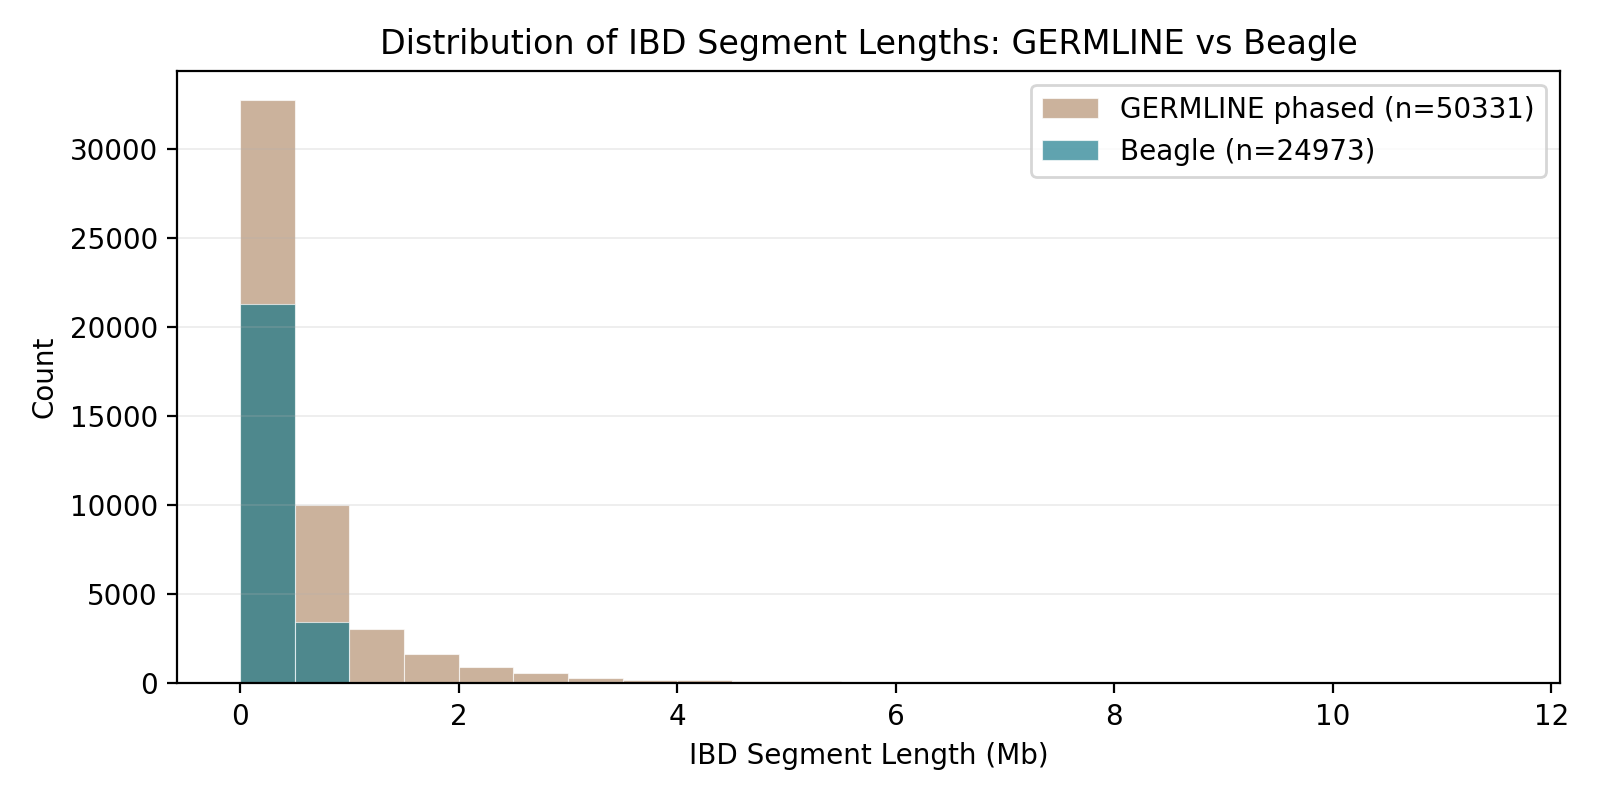
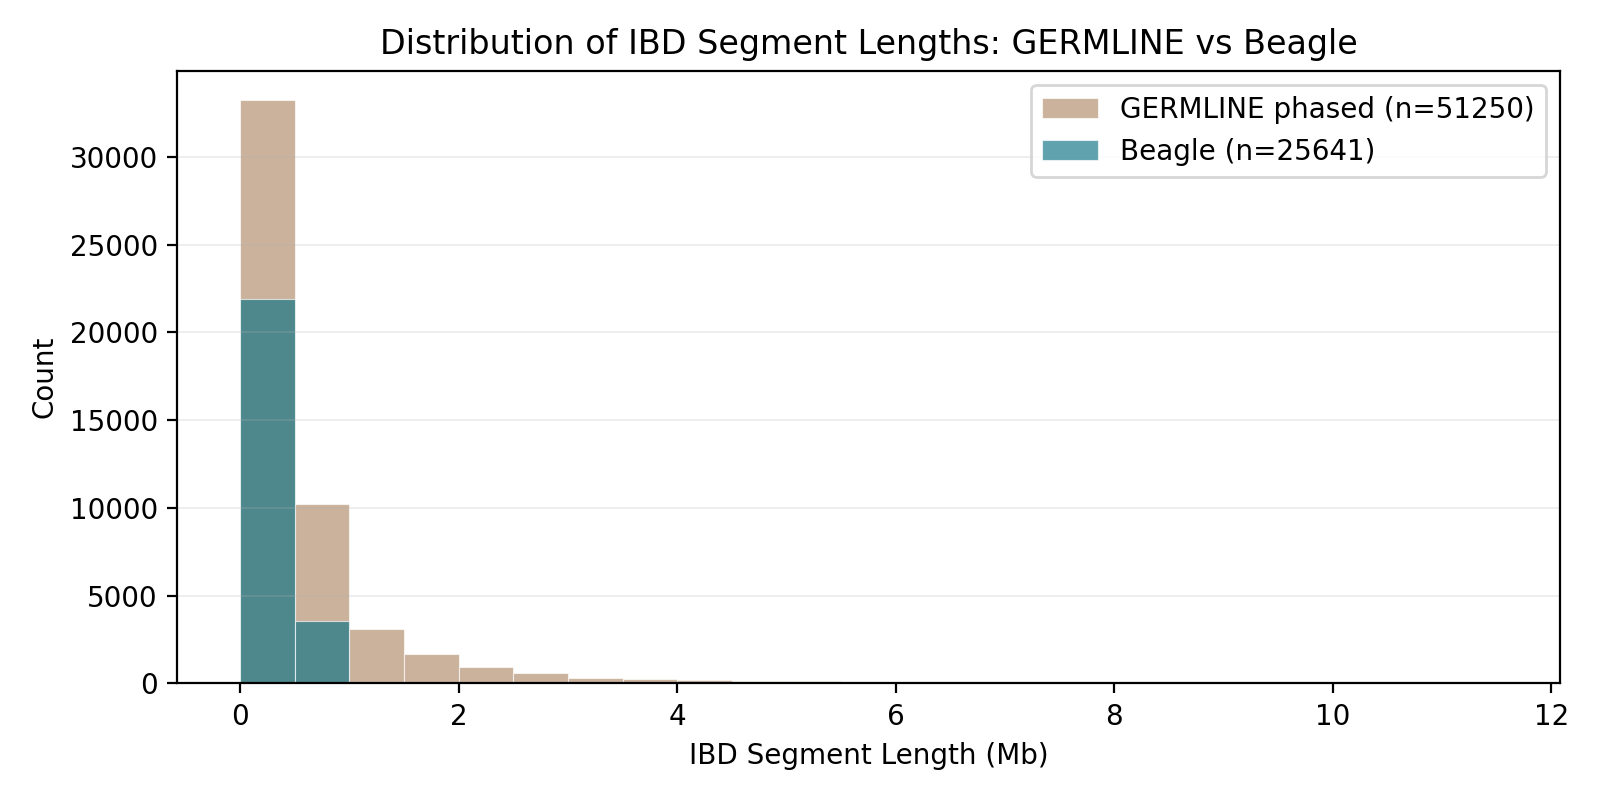
fix and run chr 2 and chr 17 manually

diff --git a/README.md b/README.md
@@ -122,6 +122,6 @@ Claude (Anthropic) was used to assist with minor Python and shell script develop
 ## TODO: 
 - [x] run on different beagle tolerances and pick one 
 - [x] test on full genome (autosomes)
-- [ ] manually add ch 2 and 17, not sure why didnt work 
+- [x] manually add ch 2 and 17, not sure why didnt work 
 - [ ] edit key findings section 
 - [ ] edit README to reflect full genome 
